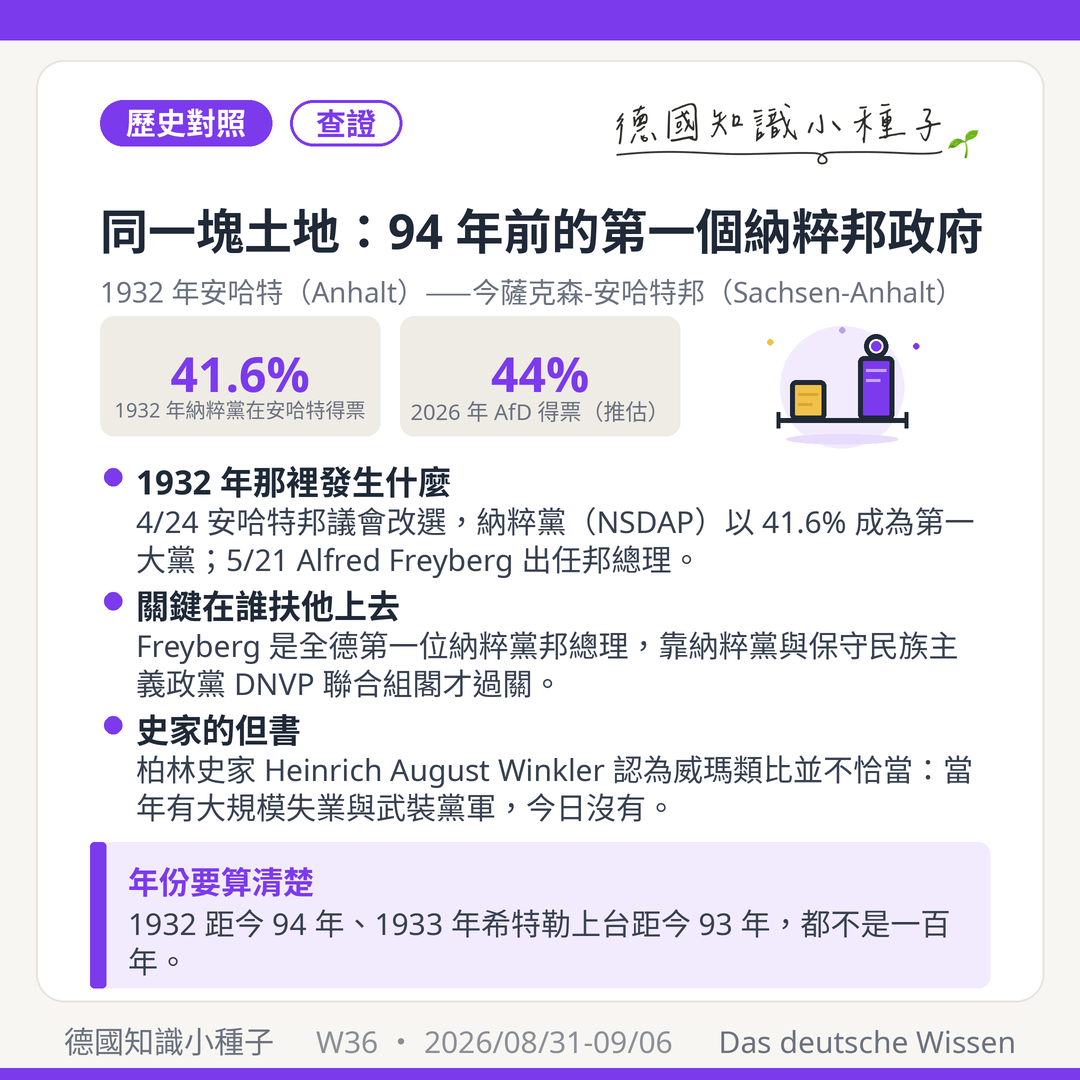
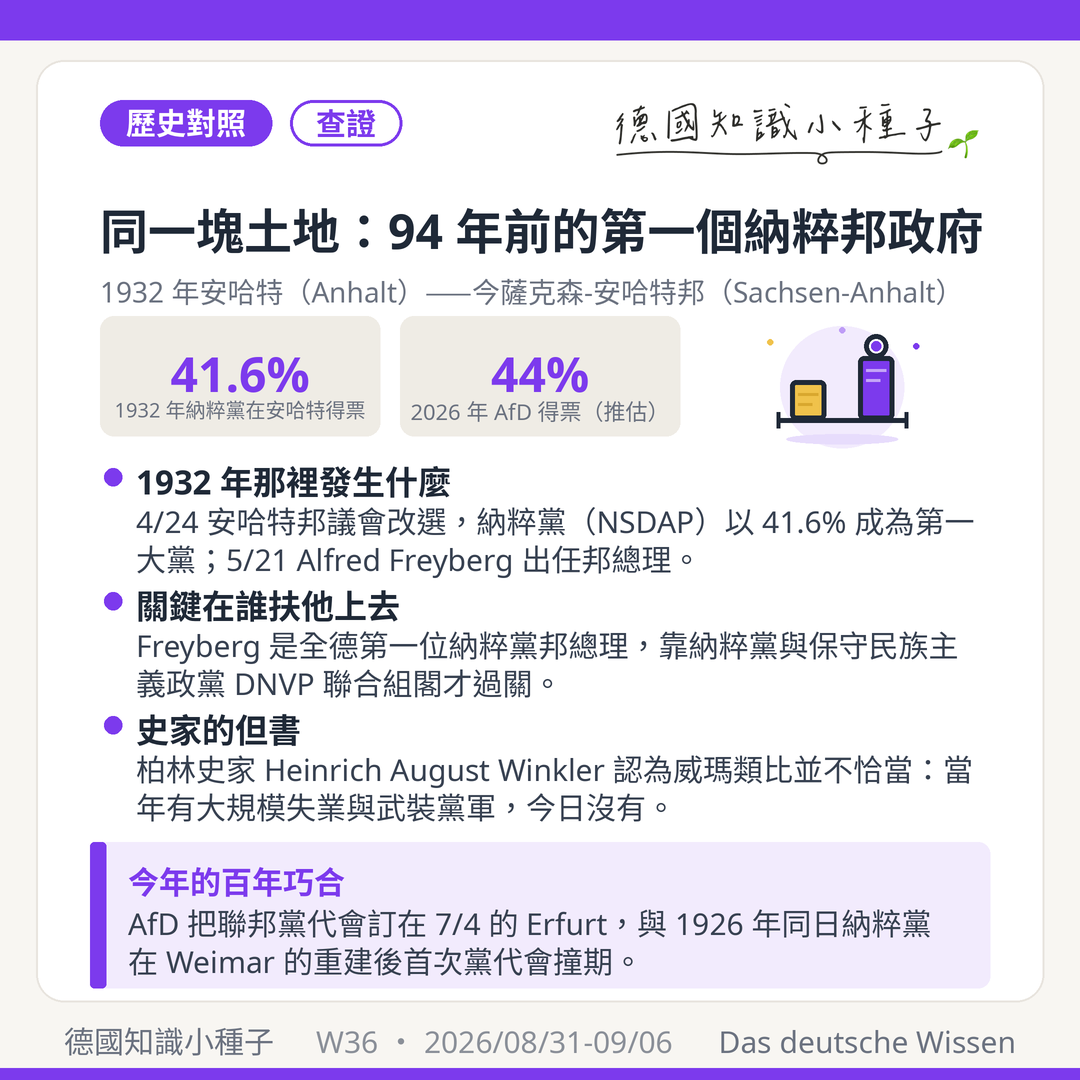
歷史對照卡拿掉「不是一百年」的更正語氣，改放今年真正的百年巧合
「1932 距今 94 年、不是一百年」是在回應提問者的說法，讀者從未看過
那個主張——印在成品上等於反駁一個沒人提出的東西，還占掉觀察框。

- 圖卡3 觀察框改為「今年的百年巧合」：AfD 7/4 於 Erfurt 的聯邦黨代會，
  與 1926 年同日納粹黨在 Weimar 的重建後首次黨代會撞期
- 網站長文刪去小節標題「但年份要算清楚：不是一百年」與其首段，
  該段原本斷言「坊間常有『剛好一百年』的說法」，但我查不到這個說法
  確實在流傳的依據，屬無憑據的陳述，一併移除；改以「今年另有一個
  剛好一百年的巧合」直接切入可考證的黨代會爭議
- TOC、導言與 FB／IG 對應段落同步拿掉反駁語氣

年份本身仍在內文自然出現（標題「94 年前」、1932／1926 等日期齊全），
讀者要算得出來仍然算得出來，只是不再由本站主動反駁一個未曾出現的主張。

IG 版 1,474 字元；產圖器五項檢查 0 警告；八載體排序一致。

Claude-Session: https://claude.ai/code/session_0146auhYrkbMfHeQpEpSdo4p

Changed region(s): [[0.1222, 0.7944, 0.8861, 0.9167]]

diff --git a/posts/weekly-digest.html b/posts/weekly-digest.html
@@ -132,14 +132,14 @@
     <div class="post-header__meta">
       <span>2026年9月6日 發布</span>
       <span class="post-header__sep">·</span>
-      <span>302 分鐘閱讀</span>
+      <span>301 分鐘閱讀</span>
     </div>
     <hr class="post-header__divider" />
   </header>
   <article class="post-content"><nav class="post-toc" aria-label="本篇目錄">
   <p class="post-toc__title">快速跳轉</p>
   <ul>
-    <li><a href="#aug31-sep6">8月31日–9月6日：薩克森-安哈特邦變天（AfD 得票 44%、CDU 腰斬至 17.5%、投票率飆至約 77%，AfD 仍未過半而組閣難度極高）、內閣 9/2 通過所得稅改革草案（2028 年起全年減稅 100 億歐元、基本免稅額升至 12,900 €、兒童津貼加到 272 €，28 萬歐元以上另立 47% 新稅級）、租客協會《2026 租金報告》半數租客怕找不到房而全德缺 140 萬戶、八月通膨升到 2.9% 而能源獨漲 10.5%、電網連環破壞橫跨三邦致五個褐煤機組一度離線且 48 歲嫌犯全歐通緝、2025 年外國專業資格承認 86,600 件創新高但成長踩煞車，另附歷史對照：1932 年安哈特（Anhalt）誕生全德第一個納粹黨邦政府（距今 94 年、非一百年）與史學界對此類類比的但書</a></li>
+    <li><a href="#aug31-sep6">8月31日–9月6日：薩克森-安哈特邦變天（AfD 得票 44%、CDU 腰斬至 17.5%、投票率飆至約 77%，AfD 仍未過半而組閣難度極高）、內閣 9/2 通過所得稅改革草案（2028 年起全年減稅 100 億歐元、基本免稅額升至 12,900 €、兒童津貼加到 272 €，28 萬歐元以上另立 47% 新稅級）、租客協會《2026 租金報告》半數租客怕找不到房而全德缺 140 萬戶、八月通膨升到 2.9% 而能源獨漲 10.5%、電網連環破壞橫跨三邦致五個褐煤機組一度離線且 48 歲嫌犯全歐通緝、2025 年外國專業資格承認 86,600 件創新高但成長踩煞車，另附歷史對照：1932 年安哈特（Anhalt）誕生全德第一個納粹黨邦政府、AfD 黨代會與 1926 年納粹黨魏瑪黨代會同日的百年巧合，以及史學界對此類類比的但書</a></li>
     <li><a href="#aug24-30">8月24日–30日：VW 撙節案點名四座工廠人力「不具競爭力」、逾 1 萬名員工在 Wolfsburg 以噓聲回應、柏林市府遭駭逾 5 萬戶住房補貼撥款卡關且參議院改口不排除個資外流、俄國七成加油站沒油而 CIA 局長密訪莫斯科（德國柴油同步跟漲）、九月新制（薪資稅務協會報稅門檻取消＋環保廣告 9/27 起要有憑據＋車站禁酒 9/1 分批上路）、內閣 Neuhardenberg 閉門會議談成長與工業 AI 而 ifo 景氣指數四連升至 88.8 點、Bitkom 與聯邦憲法保護局：87% 企業遇襲、可量化損失逾 2,110 億歐元</a></li>
     <li><a href="#aug17-20">8月17日–20日：建照回升 15.1% 但新租約租金照漲 3.2%（缺口仍達百萬戶）、龍捲風掃過萊茵蘭-普法茲／黑森／布蘭登堡三邦造成 1 死多傷而氣象局事前未發警報、許特根森林大火燒掉 300 公頃為北萊茵-西發利亞邦有紀錄以來最大、第二季就業年減 21.2 萬服務業自疫情以來首次明顯下滑、高溫防護入基本法民調 65% 贊成聯盟黨踩煞車、全德太陽能提前兩年達標 128 GWp 但業界警告擴建轉折、ifo 提案把基本保障＋住房補貼＋兒童加給併成一種給付、斯圖加特高等邦法院宣判俄羅斯「拋棄式特務」貨運破壞案</a></li>
     <li><a href="#aug10-14">8月10日–14日：柴油重回 2.20 €（能源稅減免退場＋煉油廠遇襲＋萊茵河低水位，中午 12 點前加油最便宜）、早鳥退休金國家每月替 6–18 歲孩子存 10 €（內閣 8/12 通過）、RKI 今夏高溫致死 1.25 萬人為 1992 年統計以來最致命、「陪同飲酒」走入歷史啤酒葡萄酒一律 16 歲起、乾旱燒掉收成穀物年減 5.6%、情報機關擴權草案逾 700 頁</a></li>
@@ -165,7 +165,7 @@
 </nav>
 
 <h2 id="aug31-sep6">8月31日–9月6日：薩克森-安哈特邦變天 AfD 得票 44% 而 CDU 腰斬至 17.5%、內閣通過所得稅改革一年減稅百億歐元、租金報告全德缺 140 萬戶、八月通膨 2.9% 能源獨漲一成、電網連環破壞三邦遇襲嫌犯在逃、外國專業資格承認創新高</h2>
-<p>這一週以一場改寫東部政治版圖的邦選舉作結。<strong>9 月 6 日，薩克森-安哈特邦（Sachsen-Anhalt）改選邦議會，開票夜推估值為 AfD 約 44%、執政的 CDU 崩跌至 17.5%，投票率自上屆的 60.3% 飆升到約 77%</strong>——AfD 較 2021 年增加逾 23 個百分點，但仍未取得絕對多數，組閣前景高度不確定。政策面最重的一件事在內閣會議桌上：<strong>9 月 2 日，聯邦內閣通過《2027 所得稅改革法》草案，2027 與 2028 分兩階段生效，到 2028 年全年減稅規模約 100 億歐元</strong>，基本免稅額與兒童津貼同步調高，而 28 萬歐元以上的高所得則新增一級 47% 稅率。租屋市場則收到一份警訊：<strong>德國租客協會 9 月 1 日發表《2026 租金報告》，每兩名租客就有一人擔心一旦得搬家便找不到負擔得起的房，全德住宅短缺約 140 萬戶</strong>。物價方面，<strong>聯邦統計局 8 月 29 日速報，8 月消費者物價年增 2.9%，其中能源獨漲 10.5%，食品幾乎持平</strong>。另一條線索則在一週之內完全改變了定性：<strong>9 月 1 日起，布蘭登堡邦（Brandenburg）、北萊茵-西發利亞邦（Nordrhein-Westfalen）與薩克森邦（Sachsen）的電網設施接連遇襲，一度使五個褐煤發電機組離線；認犯信經查為真，聯邦內政部長 Dobrindt 將其定性為單一行為人的「氣候恐怖主義」，48 歲嫌犯迄今在逃</strong>。本週另附一則歷史對照：<strong>全德第一個納粹黨主政的邦政府，1932 年正誕生在今薩克森-安哈特邦境內的安哈特（Anhalt）</strong>——但那距今是 94 年、不是一百年，本文一併整理史學界對這類類比的但書。與在德工作的外國人最直接相關的是一份統計：<strong>2025 年共 86,600 件外國專業資格獲得承認、創下新高，但成長率已從前兩年的兩成以上降到一成</strong>。</p>
+<p>這一週以一場改寫東部政治版圖的邦選舉作結。<strong>9 月 6 日，薩克森-安哈特邦（Sachsen-Anhalt）改選邦議會，開票夜推估值為 AfD 約 44%、執政的 CDU 崩跌至 17.5%，投票率自上屆的 60.3% 飆升到約 77%</strong>——AfD 較 2021 年增加逾 23 個百分點，但仍未取得絕對多數，組閣前景高度不確定。政策面最重的一件事在內閣會議桌上：<strong>9 月 2 日，聯邦內閣通過《2027 所得稅改革法》草案，2027 與 2028 分兩階段生效，到 2028 年全年減稅規模約 100 億歐元</strong>，基本免稅額與兒童津貼同步調高，而 28 萬歐元以上的高所得則新增一級 47% 稅率。租屋市場則收到一份警訊：<strong>德國租客協會 9 月 1 日發表《2026 租金報告》，每兩名租客就有一人擔心一旦得搬家便找不到負擔得起的房，全德住宅短缺約 140 萬戶</strong>。物價方面，<strong>聯邦統計局 8 月 29 日速報，8 月消費者物價年增 2.9%，其中能源獨漲 10.5%，食品幾乎持平</strong>。另一條線索則在一週之內完全改變了定性：<strong>9 月 1 日起，布蘭登堡邦（Brandenburg）、北萊茵-西發利亞邦（Nordrhein-Westfalen）與薩克森邦（Sachsen）的電網設施接連遇襲，一度使五個褐煤發電機組離線；認犯信經查為真，聯邦內政部長 Dobrindt 將其定性為單一行為人的「氣候恐怖主義」，48 歲嫌犯迄今在逃</strong>。本週另附一則歷史對照：<strong>全德第一個納粹黨主政的邦政府，1932 年正誕生在今薩克森-安哈特邦境內的安哈特（Anhalt）</strong>——本文一併整理當年的來龍去脈、今年 7 月 4 日那個「剛好一百年」的黨代會巧合，以及史學界對這類類比的但書。與在德工作的外國人最直接相關的是一份統計：<strong>2025 年共 86,600 件外國專業資格獲得承認、創下新高，但成長率已從前兩年的兩成以上降到一成</strong>。</p>
 
 <img src="/assets/images/2026/weekly/W36_圖卡1_薩克森安哈特邦選舉結果.png" alt="薩克森-安哈特邦2026年9月6日邦議會選舉結果 AfD 44% CDU 17.5% 投票率77% Ulrich Siegmund Sven Schulze Chrupalla Weidel 不相容決議">
 <h3>薩克森-安哈特邦變天：AfD 得票 44%，CDU 腰斬至 17.5%</h3>
@@ -186,9 +186,8 @@
 <p><strong>這一夜有一個容易被忽略、但值得放在旁邊看的歷史座標——而且它就發生在同一塊土地上。</strong></p>
 <p><strong>1932 年 4 月 24 日，安哈特自由邦（Freistaat Anhalt）改選邦議會，納粹黨（NSDAP）以約 41.6% 的得票成為第一大黨，取得 15 席。</strong>同年 <strong>5 月 21 日，Alfred Freyberg 出任邦總理，成為全德意志第一位納粹黨籍的邦總理</strong>，其內閣由<strong>納粹黨與保守民族主義政黨 DNVP 聯合組成</strong>。這是德國第一個由納粹黨主政的邦政府，首府在<strong>德紹（Dessau）</strong>。研究指出，<strong>Freyberg 政府上任後，當地的反猶太行動明顯增加</strong>。<strong>安哈特在 1945 年後併入新設的薩克森-安哈特邦（Sachsen-Anhalt）</strong>——也就是本週投票的這個邦。</p>
 <p><strong>把兩組數字並排，確實會讓人停一下：1932 年納粹黨 41.6%，2026 年 AfD 約 44%。</strong>更值得注意的不是得票率本身，而是<strong>當年納粹黨也沒有單獨過半，Freyberg 是靠保守右翼（DNVP）願意合作才坐上邦總理的位子</strong>。這正是本週選後懸而未決的同一道題：AfD 未過半，而 CDU 手上握著一道 2018 年以來的不相容決議。</p>
-<h4>但年份要算清楚：不是一百年</h4>
-<p><strong>坊間常有「剛好一百年」的說法，這在算術上並不成立，本站有必要講清楚。</strong><strong>1932 年安哈特那場選舉距今是 94 年；1933 年 1 月 30 日希特勒獲任命為總理距今是 93 年。</strong>兩者都不是一百年。</p>
-<p><strong>不過，2026 年確實有一個「剛好一百年」的巧合，而且引發了實際爭議：AfD 將聯邦黨代表大會訂在 2026 年 7 月 4 日於埃爾福特（Erfurt）舉行，而 1926 年 7 月 4 日，納粹黨正是在鄰近的威瑪（Weimar）召開重建後的首次全國黨代表大會</strong>（該次大會另成立了希特勒青年團，史學界視為該運動的轉折點）。<strong>威瑪共和協會（Weimarer Republik e. V.）批評這個日期是「致命的平行」</strong>，該會史家表示，一個正面臨右翼極端主義指控的政黨不應挑這個日子，「不是無知，就是刻意挑釁」。<strong>圖林根邦（Thüringen）AfD 邦主席 Stefan Möller 則反駁</strong>，稱把埃爾福特黨代會與百年前的威瑪黨代會相提並論，只是「強行操作歷史」。</p>
+<h4>今年另有一個「剛好一百年」的巧合，而且引發了實際爭議</h4>
+<p><strong>AfD 將聯邦黨代表大會訂在 2026 年 7 月 4 日於埃爾福特（Erfurt）舉行，而 1926 年 7 月 4 日，納粹黨正是在鄰近的威瑪（Weimar）召開重建後的首次全國黨代表大會</strong>（該次大會另成立了希特勒青年團，史學界視為該運動的轉折點）。<strong>威瑪共和協會（Weimarer Republik e. V.）批評這個日期是「致命的平行」</strong>，該會史家表示，一個正面臨右翼極端主義指控的政黨不應挑這個日子，「不是無知，就是刻意挑釁」。<strong>圖林根邦（Thüringen）AfD 邦主席 Stefan Möller 則反駁</strong>，稱把埃爾福特黨代會與百年前的威瑪黨代會相提並論，只是「強行操作歷史」。</p>
 <h4>史學界對這類類比的態度：分歧，而且多數帶著但書</h4>
 <p><strong>需要說明的是，德國史學界對「AfD＝NSDAP」這類等號並不買單，即使是嚴厲批評 AfD 的學者也多半反對直接等同。</strong></p>
 <p><strong>柏林史家 Heinrich August Winkler 明確認為與威瑪的類比是錯的</strong>，理由是錯誤的類推會把德國民主的現況放進完全錯誤的光線裡。他指出<strong>當年有大規模失業、有武裝的政黨軍隊彼此對峙，1932 至 1933 年的局勢近乎內戰狀態，這些今天都不存在</strong>；在他看來，<strong>AfD 在威瑪光譜上最接近的其實是 DNVP（德意志民族主義保守派），而不是 NSDAP</strong>。</p>

diff --git a/js/data.js b/js/data.js
@@ -530,7 +530,7 @@ const POSTS = [
 <nav class="post-toc" aria-label="本篇目錄">
   <p class="post-toc__title">快速跳轉</p>
   <ul>
-    <li><a href="#aug31-sep6">8月31日–9月6日：薩克森-安哈特邦變天（AfD 得票 44%、CDU 腰斬至 17.5%、投票率飆至約 77%，AfD 仍未過半而組閣難度極高）、內閣 9/2 通過所得稅改革草案（2028 年起全年減稅 100 億歐元、基本免稅額升至 12,900 €、兒童津貼加到 272 €，28 萬歐元以上另立 47% 新稅級）、租客協會《2026 租金報告》半數租客怕找不到房而全德缺 140 萬戶、八月通膨升到 2.9% 而能源獨漲 10.5%、電網連環破壞橫跨三邦致五個褐煤機組一度離線且 48 歲嫌犯全歐通緝、2025 年外國專業資格承認 86,600 件創新高但成長踩煞車，另附歷史對照：1932 年安哈特（Anhalt）誕生全德第一個納粹黨邦政府（距今 94 年、非一百年）與史學界對此類類比的但書</a></li>
+    <li><a href="#aug31-sep6">8月31日–9月6日：薩克森-安哈特邦變天（AfD 得票 44%、CDU 腰斬至 17.5%、投票率飆至約 77%，AfD 仍未過半而組閣難度極高）、內閣 9/2 通過所得稅改革草案（2028 年起全年減稅 100 億歐元、基本免稅額升至 12,900 €、兒童津貼加到 272 €，28 萬歐元以上另立 47% 新稅級）、租客協會《2026 租金報告》半數租客怕找不到房而全德缺 140 萬戶、八月通膨升到 2.9% 而能源獨漲 10.5%、電網連環破壞橫跨三邦致五個褐煤機組一度離線且 48 歲嫌犯全歐通緝、2025 年外國專業資格承認 86,600 件創新高但成長踩煞車，另附歷史對照：1932 年安哈特（Anhalt）誕生全德第一個納粹黨邦政府、AfD 黨代會與 1926 年納粹黨魏瑪黨代會同日的百年巧合，以及史學界對此類類比的但書</a></li>
     <li><a href="#aug24-30">8月24日–30日：VW 撙節案點名四座工廠人力「不具競爭力」、逾 1 萬名員工在 Wolfsburg 以噓聲回應、柏林市府遭駭逾 5 萬戶住房補貼撥款卡關且參議院改口不排除個資外流、俄國七成加油站沒油而 CIA 局長密訪莫斯科（德國柴油同步跟漲）、九月新制（薪資稅務協會報稅門檻取消＋環保廣告 9/27 起要有憑據＋車站禁酒 9/1 分批上路）、內閣 Neuhardenberg 閉門會議談成長與工業 AI 而 ifo 景氣指數四連升至 88.8 點、Bitkom 與聯邦憲法保護局：87% 企業遇襲、可量化損失逾 2,110 億歐元</a></li>
     <li><a href="#aug17-20">8月17日–20日：建照回升 15.1% 但新租約租金照漲 3.2%（缺口仍達百萬戶）、龍捲風掃過萊茵蘭-普法茲／黑森／布蘭登堡三邦造成 1 死多傷而氣象局事前未發警報、許特根森林大火燒掉 300 公頃為北萊茵-西發利亞邦有紀錄以來最大、第二季就業年減 21.2 萬服務業自疫情以來首次明顯下滑、高溫防護入基本法民調 65% 贊成聯盟黨踩煞車、全德太陽能提前兩年達標 128 GWp 但業界警告擴建轉折、ifo 提案把基本保障＋住房補貼＋兒童加給併成一種給付、斯圖加特高等邦法院宣判俄羅斯「拋棄式特務」貨運破壞案</a></li>
     <li><a href="#aug10-14">8月10日–14日：柴油重回 2.20 €（能源稅減免退場＋煉油廠遇襲＋萊茵河低水位，中午 12 點前加油最便宜）、早鳥退休金國家每月替 6–18 歲孩子存 10 €（內閣 8/12 通過）、RKI 今夏高溫致死 1.25 萬人為 1992 年統計以來最致命、「陪同飲酒」走入歷史啤酒葡萄酒一律 16 歲起、乾旱燒掉收成穀物年減 5.6%、情報機關擴權草案逾 700 頁</a></li>
@@ -556,7 +556,7 @@ const POSTS = [
 </nav>
 
 <h2 id="aug31-sep6">8月31日–9月6日：薩克森-安哈特邦變天 AfD 得票 44% 而 CDU 腰斬至 17.5%、內閣通過所得稅改革一年減稅百億歐元、租金報告全德缺 140 萬戶、八月通膨 2.9% 能源獨漲一成、電網連環破壞三邦遇襲嫌犯在逃、外國專業資格承認創新高</h2>
-<p>這一週以一場改寫東部政治版圖的邦選舉作結。<strong>9 月 6 日，薩克森-安哈特邦（Sachsen-Anhalt）改選邦議會，開票夜推估值為 AfD 約 44%、執政的 CDU 崩跌至 17.5%，投票率自上屆的 60.3% 飆升到約 77%</strong>——AfD 較 2021 年增加逾 23 個百分點，但仍未取得絕對多數，組閣前景高度不確定。政策面最重的一件事在內閣會議桌上：<strong>9 月 2 日，聯邦內閣通過《2027 所得稅改革法》草案，2027 與 2028 分兩階段生效，到 2028 年全年減稅規模約 100 億歐元</strong>，基本免稅額與兒童津貼同步調高，而 28 萬歐元以上的高所得則新增一級 47% 稅率。租屋市場則收到一份警訊：<strong>德國租客協會 9 月 1 日發表《2026 租金報告》，每兩名租客就有一人擔心一旦得搬家便找不到負擔得起的房，全德住宅短缺約 140 萬戶</strong>。物價方面，<strong>聯邦統計局 8 月 29 日速報，8 月消費者物價年增 2.9%，其中能源獨漲 10.5%，食品幾乎持平</strong>。另一條線索則在一週之內完全改變了定性：<strong>9 月 1 日起，布蘭登堡邦（Brandenburg）、北萊茵-西發利亞邦（Nordrhein-Westfalen）與薩克森邦（Sachsen）的電網設施接連遇襲，一度使五個褐煤發電機組離線；認犯信經查為真，聯邦內政部長 Dobrindt 將其定性為單一行為人的「氣候恐怖主義」，48 歲嫌犯迄今在逃</strong>。本週另附一則歷史對照：<strong>全德第一個納粹黨主政的邦政府，1932 年正誕生在今薩克森-安哈特邦境內的安哈特（Anhalt）</strong>——但那距今是 94 年、不是一百年，本文一併整理史學界對這類類比的但書。與在德工作的外國人最直接相關的是一份統計：<strong>2025 年共 86,600 件外國專業資格獲得承認、創下新高，但成長率已從前兩年的兩成以上降到一成</strong>。</p>
+<p>這一週以一場改寫東部政治版圖的邦選舉作結。<strong>9 月 6 日，薩克森-安哈特邦（Sachsen-Anhalt）改選邦議會，開票夜推估值為 AfD 約 44%、執政的 CDU 崩跌至 17.5%，投票率自上屆的 60.3% 飆升到約 77%</strong>——AfD 較 2021 年增加逾 23 個百分點，但仍未取得絕對多數，組閣前景高度不確定。政策面最重的一件事在內閣會議桌上：<strong>9 月 2 日，聯邦內閣通過《2027 所得稅改革法》草案，2027 與 2028 分兩階段生效，到 2028 年全年減稅規模約 100 億歐元</strong>，基本免稅額與兒童津貼同步調高，而 28 萬歐元以上的高所得則新增一級 47% 稅率。租屋市場則收到一份警訊：<strong>德國租客協會 9 月 1 日發表《2026 租金報告》，每兩名租客就有一人擔心一旦得搬家便找不到負擔得起的房，全德住宅短缺約 140 萬戶</strong>。物價方面，<strong>聯邦統計局 8 月 29 日速報，8 月消費者物價年增 2.9%，其中能源獨漲 10.5%，食品幾乎持平</strong>。另一條線索則在一週之內完全改變了定性：<strong>9 月 1 日起，布蘭登堡邦（Brandenburg）、北萊茵-西發利亞邦（Nordrhein-Westfalen）與薩克森邦（Sachsen）的電網設施接連遇襲，一度使五個褐煤發電機組離線；認犯信經查為真，聯邦內政部長 Dobrindt 將其定性為單一行為人的「氣候恐怖主義」，48 歲嫌犯迄今在逃</strong>。本週另附一則歷史對照：<strong>全德第一個納粹黨主政的邦政府，1932 年正誕生在今薩克森-安哈特邦境內的安哈特（Anhalt）</strong>——本文一併整理當年的來龍去脈、今年 7 月 4 日那個「剛好一百年」的黨代會巧合，以及史學界對這類類比的但書。與在德工作的外國人最直接相關的是一份統計：<strong>2025 年共 86,600 件外國專業資格獲得承認、創下新高，但成長率已從前兩年的兩成以上降到一成</strong>。</p>
 
 <img src="assets/images/2026/weekly/W36_圖卡1_薩克森安哈特邦選舉結果.png" alt="薩克森-安哈特邦2026年9月6日邦議會選舉結果 AfD 44% CDU 17.5% 投票率77% Ulrich Siegmund Sven Schulze Chrupalla Weidel 不相容決議">
 <h3>薩克森-安哈特邦變天：AfD 得票 44%，CDU 腰斬至 17.5%</h3>
@@ -577,9 +577,8 @@ const POSTS = [
 <p><strong>這一夜有一個容易被忽略、但值得放在旁邊看的歷史座標——而且它就發生在同一塊土地上。</strong></p>
 <p><strong>1932 年 4 月 24 日，安哈特自由邦（Freistaat Anhalt）改選邦議會，納粹黨（NSDAP）以約 41.6% 的得票成為第一大黨，取得 15 席。</strong>同年 <strong>5 月 21 日，Alfred Freyberg 出任邦總理，成為全德意志第一位納粹黨籍的邦總理</strong>，其內閣由<strong>納粹黨與保守民族主義政黨 DNVP 聯合組成</strong>。這是德國第一個由納粹黨主政的邦政府，首府在<strong>德紹（Dessau）</strong>。研究指出，<strong>Freyberg 政府上任後，當地的反猶太行動明顯增加</strong>。<strong>安哈特在 1945 年後併入新設的薩克森-安哈特邦（Sachsen-Anhalt）</strong>——也就是本週投票的這個邦。</p>
 <p><strong>把兩組數字並排，確實會讓人停一下：1932 年納粹黨 41.6%，2026 年 AfD 約 44%。</strong>更值得注意的不是得票率本身，而是<strong>當年納粹黨也沒有單獨過半，Freyberg 是靠保守右翼（DNVP）願意合作才坐上邦總理的位子</strong>。這正是本週選後懸而未決的同一道題：AfD 未過半，而 CDU 手上握著一道 2018 年以來的不相容決議。</p>
-<h4>但年份要算清楚：不是一百年</h4>
-<p><strong>坊間常有「剛好一百年」的說法，這在算術上並不成立，本站有必要講清楚。</strong><strong>1932 年安哈特那場選舉距今是 94 年；1933 年 1 月 30 日希特勒獲任命為總理距今是 93 年。</strong>兩者都不是一百年。</p>
-<p><strong>不過，2026 年確實有一個「剛好一百年」的巧合，而且引發了實際爭議：AfD 將聯邦黨代表大會訂在 2026 年 7 月 4 日於埃爾福特（Erfurt）舉行，而 1926 年 7 月 4 日，納粹黨正是在鄰近的威瑪（Weimar）召開重建後的首次全國黨代表大會</strong>（該次大會另成立了希特勒青年團，史學界視為該運動的轉折點）。<strong>威瑪共和協會（Weimarer Republik e. V.）批評這個日期是「致命的平行」</strong>，該會史家表示，一個正面臨右翼極端主義指控的政黨不應挑這個日子，「不是無知，就是刻意挑釁」。<strong>圖林根邦（Thüringen）AfD 邦主席 Stefan Möller 則反駁</strong>，稱把埃爾福特黨代會與百年前的威瑪黨代會相提並論，只是「強行操作歷史」。</p>
+<h4>今年另有一個「剛好一百年」的巧合，而且引發了實際爭議</h4>
+<p><strong>AfD 將聯邦黨代表大會訂在 2026 年 7 月 4 日於埃爾福特（Erfurt）舉行，而 1926 年 7 月 4 日，納粹黨正是在鄰近的威瑪（Weimar）召開重建後的首次全國黨代表大會</strong>（該次大會另成立了希特勒青年團，史學界視為該運動的轉折點）。<strong>威瑪共和協會（Weimarer Republik e. V.）批評這個日期是「致命的平行」</strong>，該會史家表示，一個正面臨右翼極端主義指控的政黨不應挑這個日子，「不是無知，就是刻意挑釁」。<strong>圖林根邦（Thüringen）AfD 邦主席 Stefan Möller 則反駁</strong>，稱把埃爾福特黨代會與百年前的威瑪黨代會相提並論，只是「強行操作歷史」。</p>
 <h4>史學界對這類類比的態度：分歧，而且多數帶著但書</h4>
 <p><strong>需要說明的是，德國史學界對「AfD＝NSDAP」這類等號並不買單，即使是嚴厲批評 AfD 的學者也多半反對直接等同。</strong></p>
 <p><strong>柏林史家 Heinrich August Winkler 明確認為與威瑪的類比是錯的</strong>，理由是錯誤的類推會把德國民主的現況放進完全錯誤的光線裡。他指出<strong>當年有大規模失業、有武裝的政黨軍隊彼此對峙，1932 至 1933 年的局勢近乎內戰狀態，這些今天都不存在</strong>；在他看來，<strong>AfD 在威瑪光譜上最接近的其實是 DNVP（德意志民族主義保守派），而不是 NSDAP</strong>。</p>

diff --git a/scripts/cardgen/make_weekly_cards.py b/scripts/cardgen/make_weekly_cards.py
@@ -1530,7 +1530,7 @@ CARDS = [
    ('關鍵在誰扶他上去', 'Freyberg 是全德第一位納粹黨邦總理，靠納粹黨與保守民族主義政黨 DNVP 聯合組閣才過關。'),
    ('史家的但書', '柏林史家 Heinrich August Winkler 認為威瑪類比並不恰當：當年有大規模失業與武裝黨軍，今日沒有。'),
   ],
-  takeaway=('年份要算清楚', '1932 距今 94 年、1933 年希特勒上台距今 93 年，都不是一百年。'),
+  takeaway=('今年的百年巧合', 'AfD 把聯邦黨代會訂在 7/4 的 Erfurt，與 1926 年同日納粹黨在 Weimar 的重建後首次黨代會撞期。'),
   file='W36_圖卡3_九十四年前的第一個納粹邦政府.png'),
  dict(
   theme='#2E8B57', badges=[('稅制', True), ('家庭', False)], illu='taxrelief',
